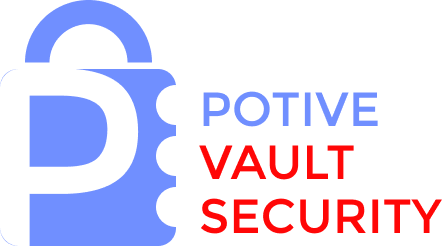
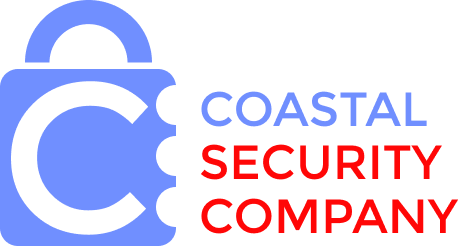
name change

diff --git a/reserve/src/components/Featured.jsx b/reserve/src/components/Featured.jsx
@@ -1,7 +1,7 @@
 import React from 'react'
 
 
-const Card=({img})=>{
+const Card=({img,country})=>{
   return(
     <div className='rounded-lg shadow-2xl overflow-hidden group'>
       <div className='w-ful overflow-hidden'>
@@ -10,7 +10,7 @@ const Card=({img})=>{
 
       <div className='p-4'>
         <div className='flex justify-between'>
-          <p className='font-semibold text-gray-600 text-xl'>Jakarta - Manado</p>
+          <p className='font-semibold text-gray-600 text-xl'>{country}</p>
           {/* <p>Free Pick Up</p> */}
         </div>
       </div>
@@ -31,9 +31,9 @@ function Featured() {
       </div>
 
       <div className='grid md:grid-cols-3 grid-cols-1 gap-5 p-5'>
-        <Card img='https://images.unsplash.com/photo-1605732562742-3023a888e56e?ixlib=rb-4.0.3&ixid=MnwxMjA3fDB8MHxwaG90by1wYWdlfHx8fGVufDB8fHx8&auto=format&fit=crop&w=435&q=80' />
-        <Card img='https://images.unsplash.com/photo-1600633532411-13ed06f7bcc6?ixlib=rb-4.0.3&ixid=MnwxMjA3fDB8MHxwaG90by1wYWdlfHx8fGVufDB8fHx8&auto=format&fit=crop&w=435&q=80'/>
-        <Card img='https://images.unsplash.com/photo-1615044606239-76ef89b01a34?ixlib=rb-4.0.3&ixid=MnwxMjA3fDB8MHxwaG90by1wYWdlfHx8fGVufDB8fHx8&auto=format&fit=crop&w=435&q=80'/>
+        <Card img='https://images.unsplash.com/photo-1605732562742-3023a888e56e?ixlib=rb-4.0.3&ixid=MnwxMjA3fDB8MHxwaG90by1wYWdlfHx8fGVufDB8fHx8&auto=format&fit=crop&w=435&q=80' country={'Canada'}/>
+        <Card img='https://images.unsplash.com/photo-1600633532411-13ed06f7bcc6?ixlib=rb-4.0.3&ixid=MnwxMjA3fDB8MHxwaG90by1wYWdlfHx8fGVufDB8fHx8&auto=format&fit=crop&w=435&q=80' country={'U.S.A'}/>
+        <Card img='https://images.unsplash.com/photo-1615044606239-76ef89b01a34?ixlib=rb-4.0.3&ixid=MnwxMjA3fDB8MHxwaG90by1wYWdlfHx8fGVufDB8fHx8&auto=format&fit=crop&w=435&q=80' country={'China'}/>
       </div>
     </div>
   )

diff --git a/reserve/src/Pages/About.jsx b/reserve/src/Pages/About.jsx
@@ -9,7 +9,7 @@ function About() {
             </div>
             <div className='container mx-auto py-10 p-5 md:p-auto'>
                 <p className='text-center text-3xl'>About Us</p>
-                <p className='font-light'>Potive Vaults Security is a fully Licensed, Bonded and Insured Private Security Company, registered in the Republic of Ghana and a leader in high quality and effective. Treasure Trust Vaults and Security provides fully trained and screened officers and personnel to maintain secure environments for companies, residences, warehouses amongst others.</p> <br />
+                <p className='font-light'>Coastal Security Company is a fully Licensed, Bonded and Insured Private Security Company, registered in the Republic of Ghana and a leader in high quality and effective. Treasure Trust Vaults and Security provides fully trained and screened officers and personnel to maintain secure environments for companies, residences, warehouses amongst others.</p> <br />
                 <p className='font-light'>Our physical security services are designed to fully integrate with your requirements, likewise to provide the maximum protection for your workers and assets. Our officers are selected for their professional demeanor, attitude and ability. All officers undergo comprehensive background screening, criminal record and fingerprint checks. Our extensive training involves theoretical and practical courses including security planning, security and law, public relations, first aid, fire prevention and public decorum.</p> <br />
                 <p className='font-light'>Treasure Trust Vaults and Security officers are prepared to politely handle and diffuse delicate situations, while taking a proactive stance enforcing client policy. Commitment to effective security and exceptional customer service is our hallmark.</p>
 

diff --git a/reserve/src/components/Testimonials.jsx b/reserve/src/components/Testimonials.jsx
@@ -28,9 +28,9 @@ function Testimonials() {
             onSwiper={(swiper) => console.log(swiper)}
             modules={[Autoplay]}
           >
-            <SwiperSlide><TestimonalCard imgSrc='https://i.pravatar.cc/150?img=3' name='David Randson'/></SwiperSlide>
-            <SwiperSlide><TestimonalCard imgSrc='https://i.pravatar.cc/150?img=20' name='Shei Banks'/></SwiperSlide>
-            <SwiperSlide><TestimonalCard imgSrc='https://i.pravatar.cc/150?img=8' name='Gideon Mavins'/></SwiperSlide>
+            <SwiperSlide><TestimonalCard imgSrc='https://i.pravatar.cc/150?img=3' name='David Randson' comment={'I\'m incredibly impressed with the level of security provided by this vault service. Knowing that my valuables are stored here gives me peace of mind. The state-of-the-art security measures and attentive staff make it a trustworthy choice for anyone seeking top-notch vault security'}/></SwiperSlide>
+            <SwiperSlide><TestimonalCard imgSrc='https://i.pravatar.cc/150?img=20' name='Shei Banks' comment={"The vault security offered by this service is second to none. From advanced access control to round-the-clock surveillance, they prioritize the safety of my belongings. I highly recommend their secure vaults for anyone who values the importance of a reliable and robust security system."}/></SwiperSlide>
+            <SwiperSlide><TestimonalCard imgSrc='https://i.pravatar.cc/150?img=8' name='Gideon Mavins' comment={'Securing my assets is a top priority, and this vault service has exceeded my expectations. The cutting-edge technology and stringent security protocols in place make me confident in the safety of my valuables. If you\'re looking for a vault service that takes security seriously, this is the one'}/></SwiperSlide>
           </Swiper>
 
       </div>

diff --git a/reserve/src/components/TestimonalCard.jsx b/reserve/src/components/TestimonalCard.jsx
@@ -1,16 +1,16 @@
 import React from 'react'
 
-function TestimonalCard({imgSrc,name}) {
+function TestimonalCard({imgSrc,name,comment}) {
   return (
     <div className=''>
-        <div className='w-20 h-20 rounded'>
-            <img src={imgSrc} alt="test1" className='object-cover rounded-xl  '/>
+        <div className='w-20 h-20 bg-gray-300 rounded-lg'>
+            <img src={''} alt="test1" className='object-cover rounded-xl  '/>
         </div>
         <div className='ms-20'>
-            <p className='text-xl '>Lorem ipsum dolor, sit amet consectetur adipisicing elit. Voluptates ex dignissimos sunt ducimus maiores? Adipisci magni dolor qui libero mollitia debitis tempore atque, temporibus obcaecati, reprehenderit repudiandae nobis amet quaerat.</p>
+            <p className='text-xl font-light '>{comment}</p>
 
             <div className='mt-16'>
-                <p className='font-semibold text-gray-50'>{name}</p>
+                <p className='font-light text-gray-50'>{name}</p>
             </div>
         </div>
         

diff --git a/reserve/src/components/Services.jsx b/reserve/src/components/Services.jsx
@@ -33,7 +33,7 @@ function Services() {
                 <Item title='CASH STORAGE' text='We have access to over a ten million square feet of storage space in strategic partnership locations' iconName={money}/>
                 <Item title='DIAMOND & JEWELRY' text='Jewellery Storage can be difficult, as you often want to wear it. It is ideal to consolidate the storage of your jewels' iconName={gem}/>
                 <Item title='PRECIOUS METAL' text='Our security is a purpose built facility is built to hold the weight of bullion as well as any other items that you need to keep safe' iconName={bullion}/>
-                <Item title='PERSONAL DOCUMENTS' text='Container ships,both full container and LCL to favorite areas' iconName={docs}/>
+                <Item title='PERSONAL DOCUMENTS' text='Keep all your personal documents secure and safe ' iconName={docs}/>
                 
             </div>
 

diff --git a/reserve/src/components/Footer.jsx b/reserve/src/components/Footer.jsx
@@ -31,11 +31,11 @@ function Footer() {
 
             <a href=""><p className='font-light text-xl'>Yogyakarata,</p></a>
             <a href=""><p className='font-light text-xl'>(021) 999 9999</p></a>
-            <a href=""><p className='font-light text-xl'>Ship@gmail.com</p></a>
+            <a href=""><p className='font-light text-xl'>coastal@gmail.com</p></a>
           </div>
 
         </div>
-        <p className='text-center'>Allright Reserved | Potive Vault Security Company Worldwide</p>
+        <p className='text-center'>Allright Reserved | Coastal Security Company Worldwide</p>
     </div>
   )
 }

diff --git a/reserve/index.html b/reserve/index.html
@@ -7,7 +7,7 @@
     <link rel="stylesheet" href="https://unpkg.com/leaflet@1.9.4/dist/leaflet.css"
     integrity="sha256-p4NxAoJBhIIN+hmNHrzRCf9tD/miZyoHS5obTRR9BMY="
     crossorigin=""/>
-    <title>Potive Vault Security</title>
+    <title>Coastal Security Company</title>
   </head>
   <body>
     <div id="root"></div>
